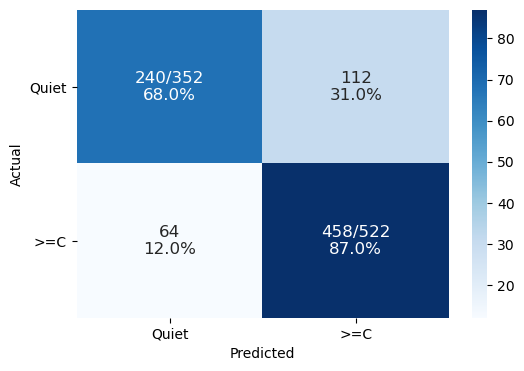
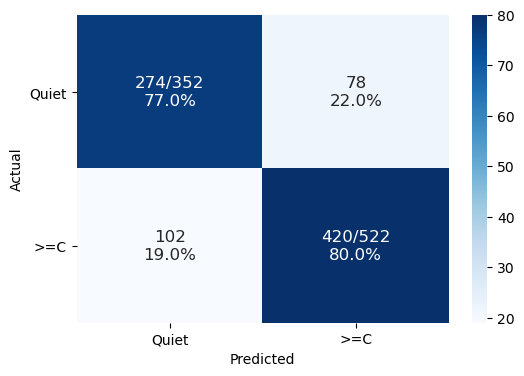
Update binary model

diff --git a/models/binary/report.md b/models/binary/report.md
@@ -22,7 +22,7 @@ trainer:
 name: Baseline binary classification model
 path: models/binary
 seed: 42
-tracking: true
+tracking: false
 gpus: 1
 ```
 ### Model architecture
@@ -79,11 +79,12 @@ Total parameters: 24594
 ### Metadata
 ```yaml
 machine: 'lambda02 | Linux #113-Ubuntu SMP Thu Jul 9 23:41:39 UTC 2020 | 10 cores @ 4120.00Mhz | RAM 126 GB | 2x TITAN RTX'
-training_time: 44.13s
+training_time: 49.14s
 model_size: 321kB
-early_stopping_epoch: 12
-model_checkpoint_step: 765
-tracking_id: SOLN-55
+early_stopping_epoch: 16
+model_checkpoint_step: 648
+model_checkpoint_epoch: 10
+tracking_id:
 dataset:
   training_set_size: 7446
   validation_set_size: 827
@@ -91,9 +92,9 @@ dataset:
 ```
 ## Test
 ### Metrics
-| Path                       | accuracy   | balanced_accuracy   | csi    | f1      | far     | hss     | pod     | tss     |
-|----------------------------|------------|---------------------|--------|---------|---------|---------|---------|---------|
-| models/binary/metrics.yaml | 0.79863    | 0.77961             | 0.7224 | 0.78527 | 0.19649 | 0.57191 | 0.87739 | 0.55921 |
+| Path                       | accuracy   | balanced_accuracy   | csi   | f1      | far     | hss     | pod    | tss     |
+|----------------------------|------------|---------------------|-------|---------|---------|---------|--------|---------|
+| models/binary/metrics.yaml | 0.79405    | 0.7915              | 0.7   | 0.78814 | 0.15663 | 0.57661 | 0.8046 | 0.58301 |
 
 ### Confusion matrix
 ![Confusion matrix](confusion_matrix.png 'Confusion matrix')
